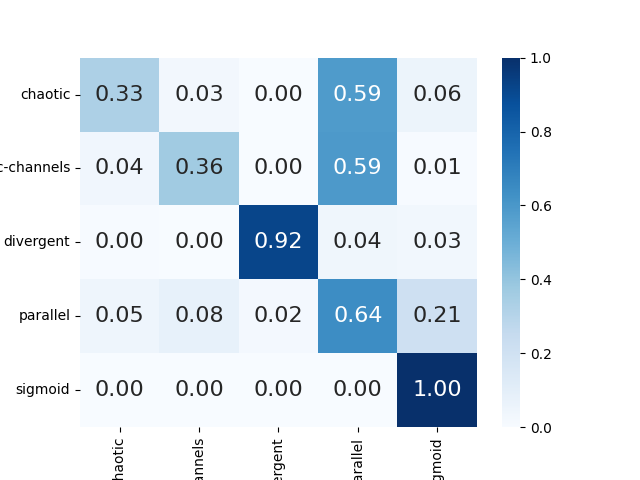
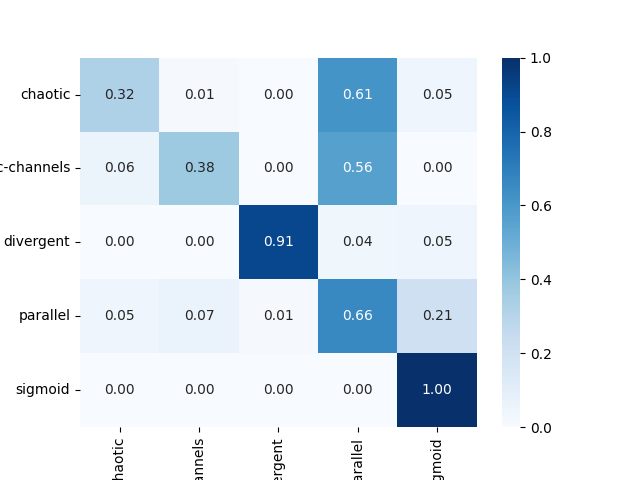
.

diff --git a/test_llama_prefix.py b/test_llama_prefix.py
@@ -90,7 +90,7 @@ def criar_matriz_de_cofusao(resultados):
     ax = sns.heatmap(
         cm, annot=True, xticklabels=classes_possiveis,
         yticklabels=classes_possiveis, cmap="Blues", vmin=0.0, vmax=1.0,
-        fmt=".2f", annot_kws={"size": 16}, 
+        fmt=".2f",
     )
     ax.set_xticklabels(ax.get_xticklabels())
     plt.xlabel("Predicted label")

diff --git a/config.py b/config.py
@@ -44,7 +44,7 @@ import torch
 # N_EMBEDS_BATCH = 1000  # How many files to save each time
 # MAX_SIZE_MEMORY = 5000
 
-MAP_NETWORK = 'transformer'
+MAP_NETWORK = 'mlp'
 LANG_PREFIX_CHECKPOINT =f'checkpoints/prefix_ckpt_parihaka_f3_{MAP_NETWORK}.pth'
 
 CLIP_VISION_MODEL = 'checkpoints/resnet18_parihaka_f3_encoder.pth'
